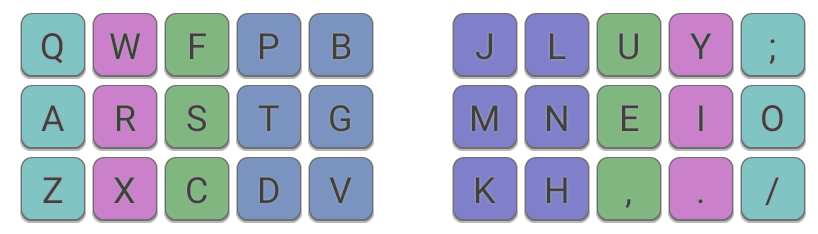
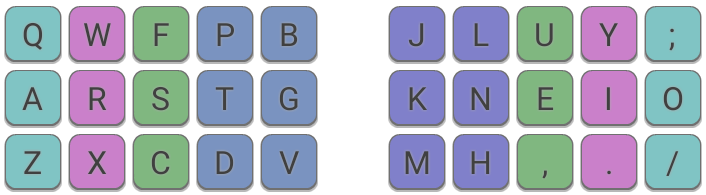
new image of matrix keyboard with switched M/K

diff --git a/keyboards.html b/keyboards.html
@@ -96,8 +96,7 @@
 <h4><a name="matrix-keyboards" class="anchor" href="#matrix-keyboards"><span class="octicon octicon-link"></span></a>Matrix/Ergonomic Keyboards</h4>
 
 <p class="caption"><img src="gfx/mod_dh_keyb_matrix.png"/><br/>
-<u>Matrix:</u> Colemak Mod-DH for an idealized, non-staggered keyboard. Note, on this type of keyboard, it is recommended to assign M to the middle row, with directly K below.
-</p>
+<u>Matrix:</u> Colemak Mod-DH for an idealized, non-staggered keyboard. Note, on this type of keyboard, some users may prefer to switch M with K.</p>
 
       </section>
       <!--
